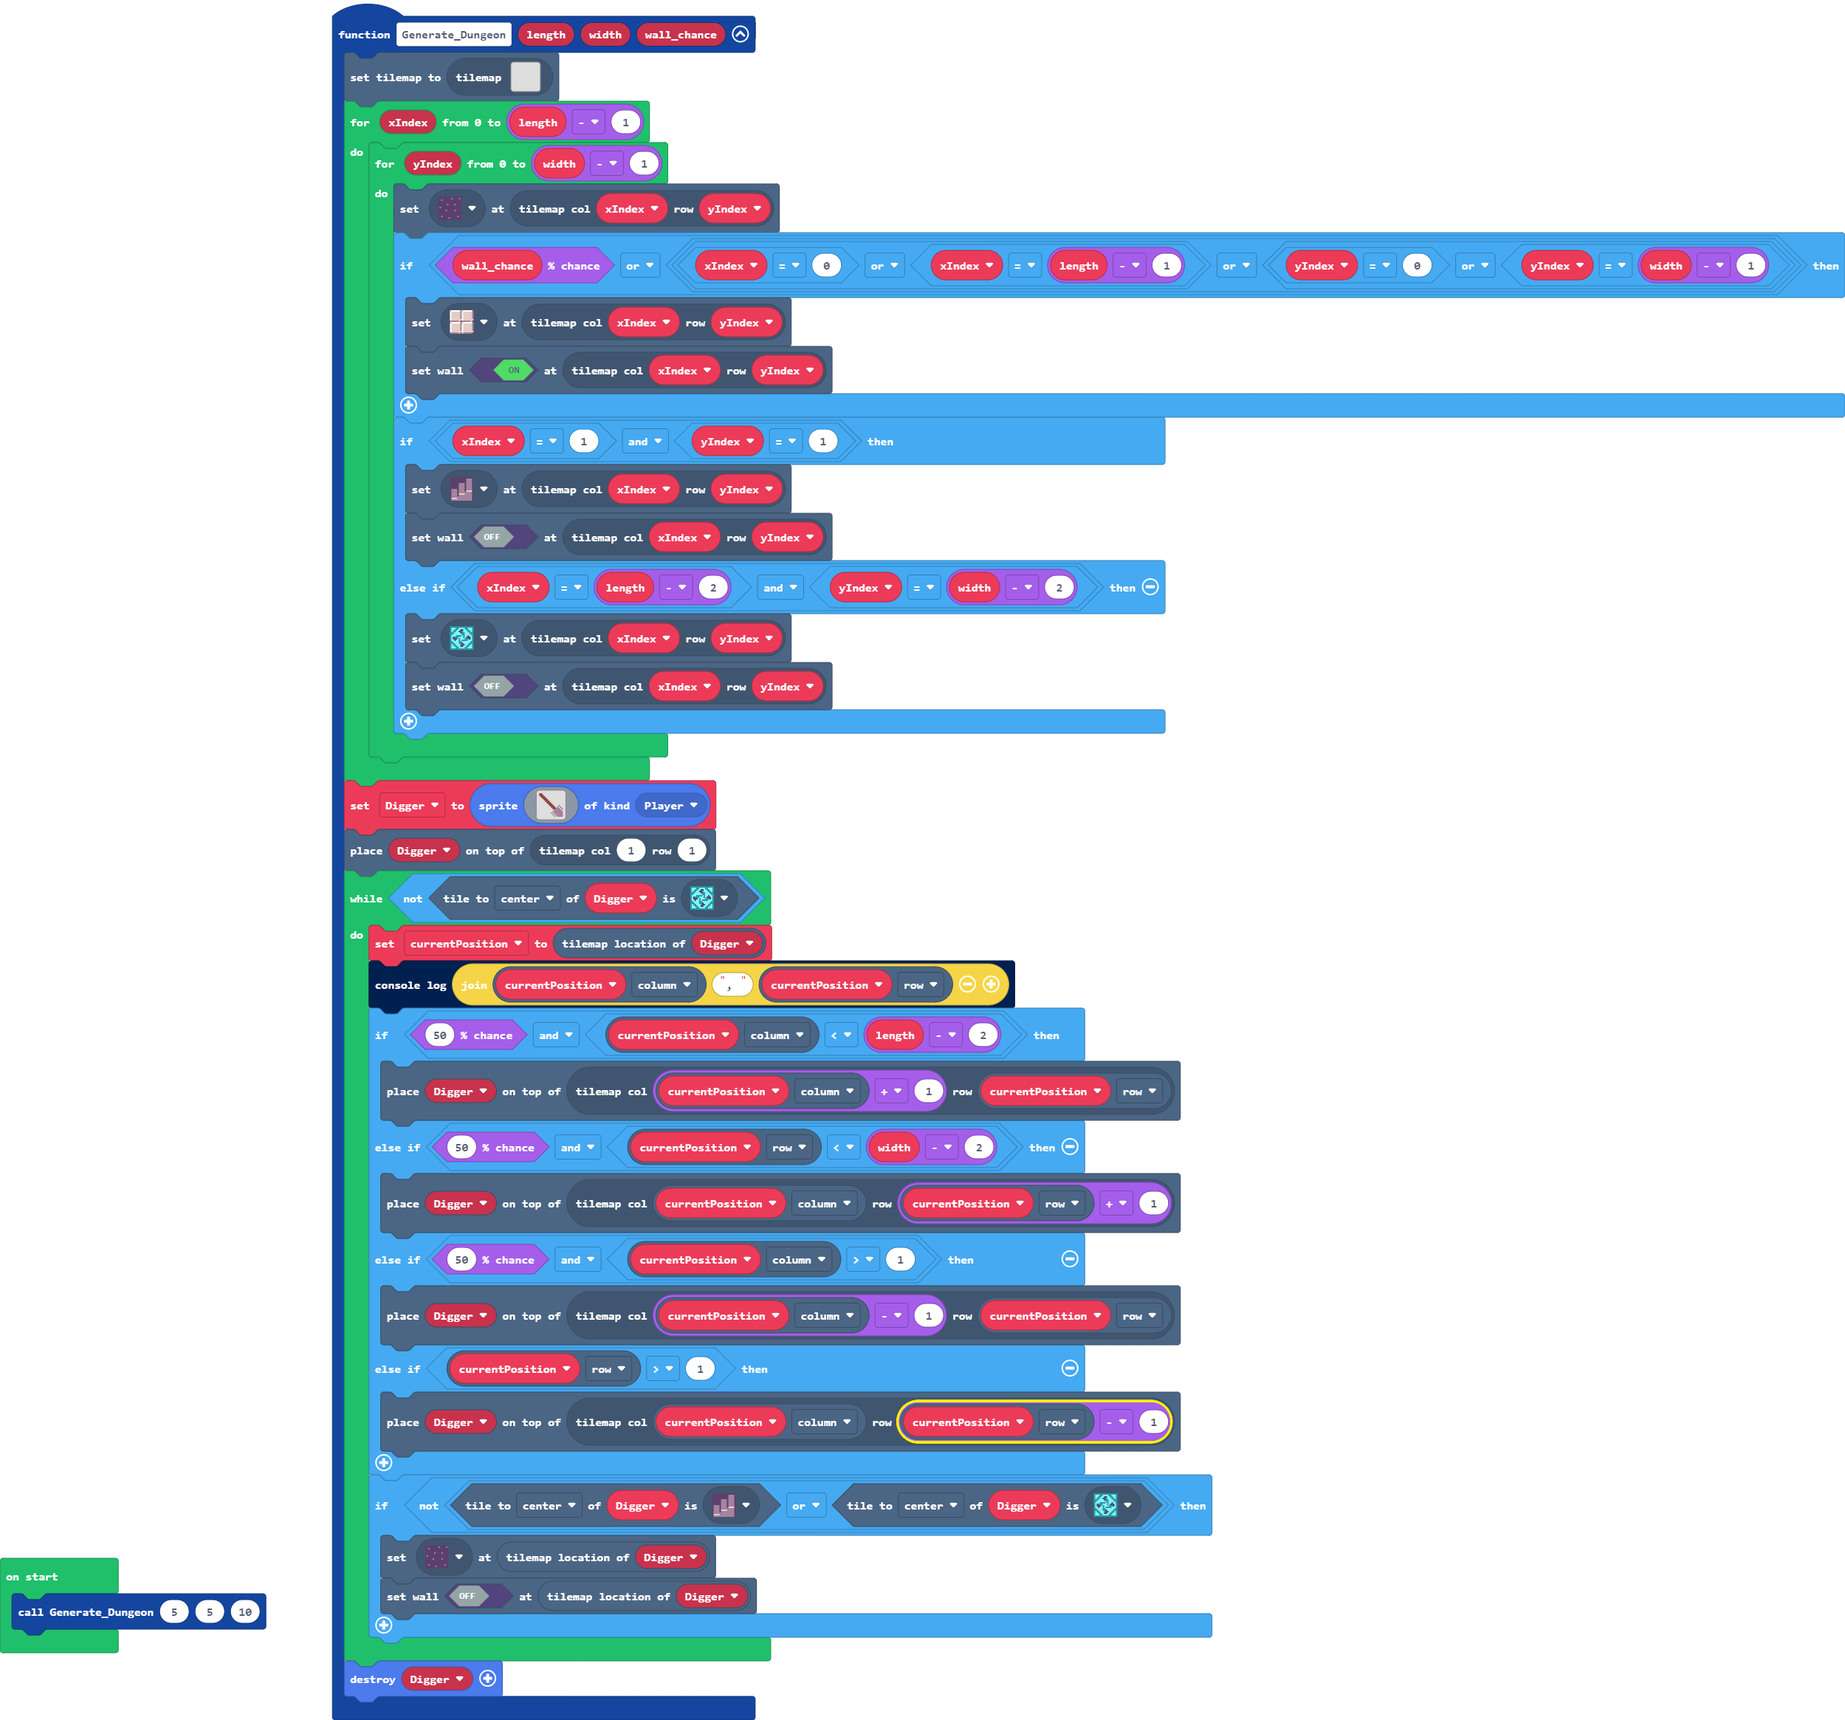
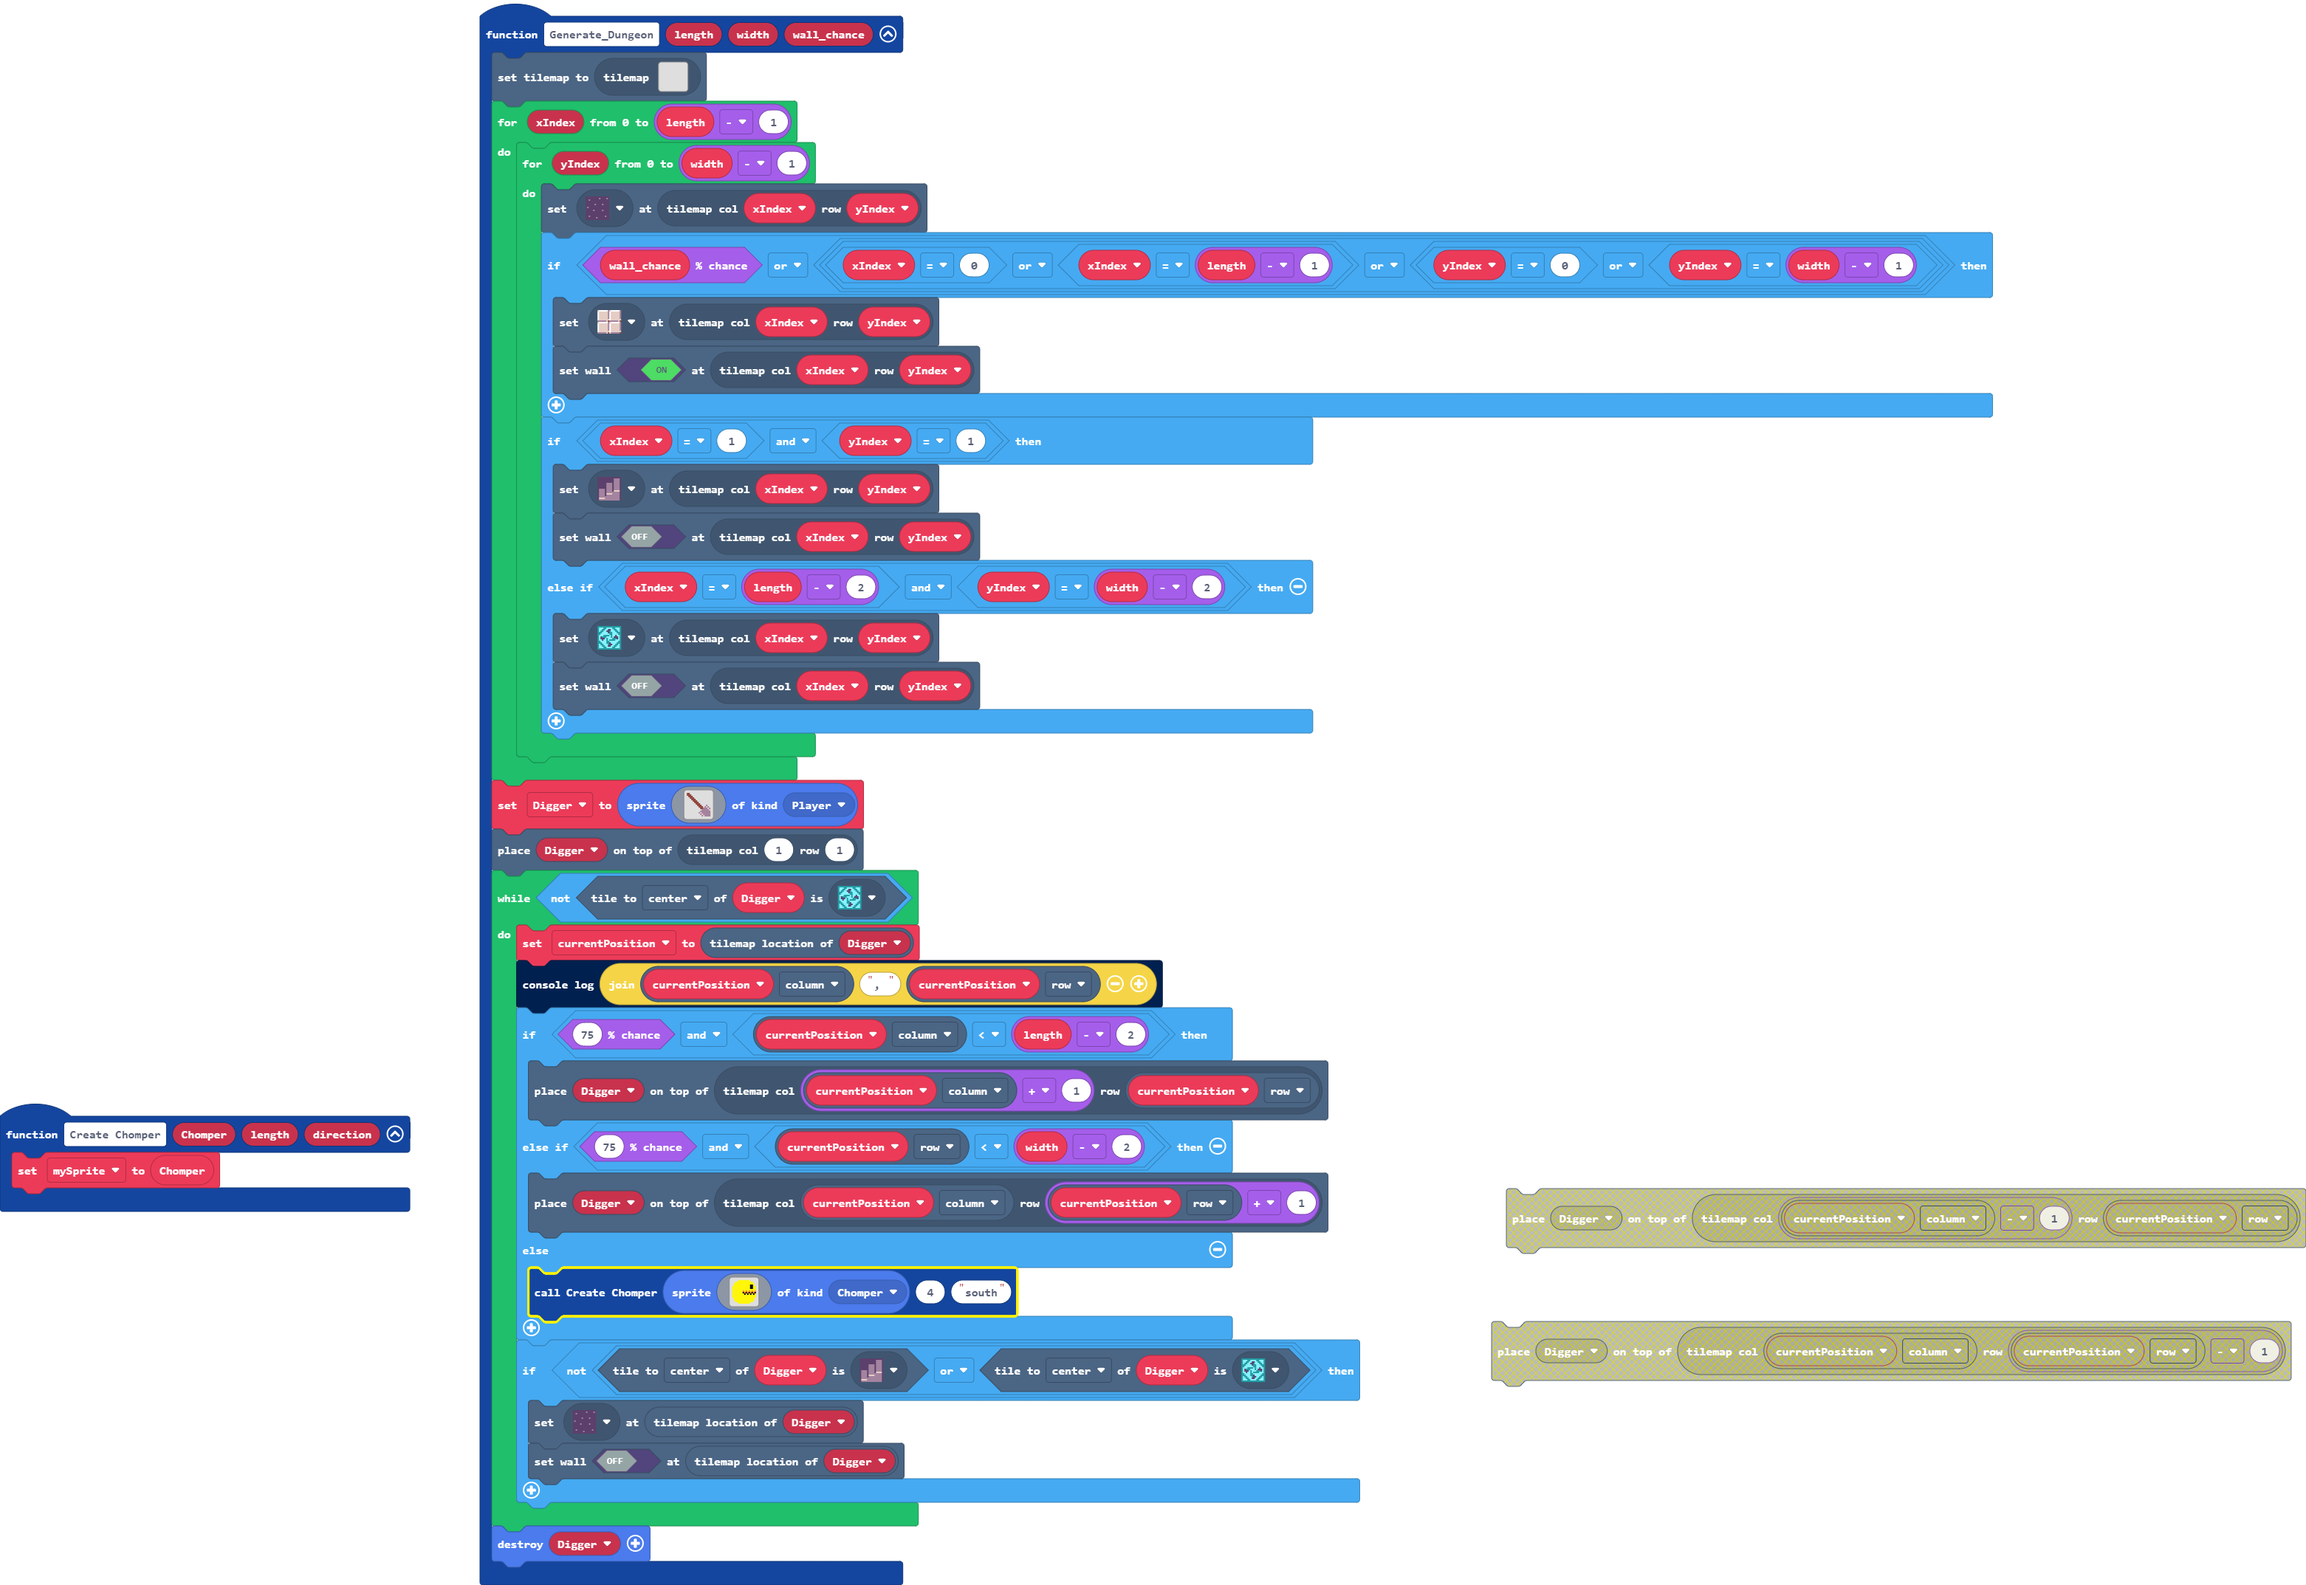
Chomper update immanent (DEBUG)

diff --git a/backupA.ts b/backupA.ts
@@ -1,0 +1,63 @@
+
+/**
+* Use this file to define custom functions and blocks.
+* Read more at https://arcade.makecode.com/blocks/custom
+*/
+
+
+
+/**
+ * Custom blocks
+ */
+//% weight=100 color=#8B8B8B icon="╬"
+namespace temp {
+    /**
+     * TODO: This code generates a rectangle given parameters
+     * @param length how wide the dungeon will be, in tiles, eg: 10
+     * @param width how long the dungeon will be, in tiles, eg: 10
+     */
+    //% block
+
+    export function Generate_Dungeon(length: number, width: number, wall_chance: number) {
+        let currentPosition: tiles.Location = null
+        let Digger: Sprite = null
+        tiles.setCurrentTilemap(tilemap`level1`)
+        for (let xIndex = 0; xIndex <= length - 1; xIndex++) {
+            for (let yIndex = 0; yIndex <= width - 1; yIndex++) {
+                tiles.setTileAt(tiles.getTileLocation(xIndex, yIndex), sprites.dungeon.darkGroundCenter)
+                if (Math.percentChance(wall_chance) || (xIndex == 0 || xIndex == length - 1 || (yIndex == 0 || yIndex == width - 1))) {
+                    tiles.setTileAt(tiles.getTileLocation(xIndex, yIndex), sprites.dungeon.floorLight0)
+                    tiles.setWallAt(tiles.getTileLocation(xIndex, yIndex), true)
+                }
+                if (xIndex == 1 && yIndex == 1) {
+                    tiles.setTileAt(tiles.getTileLocation(xIndex, yIndex), sprites.dungeon.stairLarge)
+                    tiles.setWallAt(tiles.getTileLocation(xIndex, yIndex), false)
+                } else if (xIndex == length - 2 && yIndex == width - 2) {
+                    tiles.setTileAt(tiles.getTileLocation(xIndex, yIndex), sprites.dungeon.collectibleInsignia)
+                    tiles.setWallAt(tiles.getTileLocation(xIndex, yIndex), false)
+                }
+            }
+        }
+        Digger = sprites.create(assets.image`shovel`, SpriteKind.Player)
+        tiles.placeOnTile(Digger, tiles.getTileLocation(1, 1))
+        while (!(Digger.tileKindAt(TileDirection.Center, sprites.dungeon.collectibleInsignia))) {
+            currentPosition = Digger.tilemapLocation()
+            console.log("" + currentPosition.column + ", " + currentPosition.row)
+            if (Math.percentChance(50) && currentPosition.column < length - 2) {
+                tiles.placeOnTile(Digger, tiles.getTileLocation(currentPosition.column + 1, currentPosition.row))
+            } else if (Math.percentChance(50) && currentPosition.row < width - 2) {
+                tiles.placeOnTile(Digger, tiles.getTileLocation(currentPosition.column, currentPosition.row + 1))
+            } else if (Math.percentChance(50) && currentPosition.column > 1) {
+                tiles.placeOnTile(Digger, tiles.getTileLocation(currentPosition.column - 1, currentPosition.row))
+            } else if (currentPosition.row > 1) {
+                tiles.placeOnTile(Digger, tiles.getTileLocation(currentPosition.column, currentPosition.row - 1))
+            }
+            if (!(Digger.tileKindAt(TileDirection.Center, sprites.dungeon.stairLarge) || Digger.tileKindAt(TileDirection.Center, sprites.dungeon.collectibleInsignia))) {
+                tiles.setTileAt(Digger.tilemapLocation(), sprites.dungeon.darkGroundCenter)
+                tiles.setWallAt(Digger.tilemapLocation(), false)
+            }
+        }
+        sprites.destroy(Digger)
+    }
+
+}

diff --git a/main.ts b/main.ts
@@ -1,0 +1,46 @@
+namespace SpriteKind {
+    export const Chomper = SpriteKind.create()
+}
+let Digger: Sprite = null
+let currentPosition: tiles.Location = null
+let mySprite: Sprite = null
+function Generate_Dungeon (length: number, width: number, wall_chance: number) {
+    tiles.setCurrentTilemap(tilemap`level1`)
+    for (let xIndex = 0; xIndex <= length - 1; xIndex++) {
+        for (let yIndex = 0; yIndex <= width - 1; yIndex++) {
+            tiles.setTileAt(tiles.getTileLocation(xIndex, yIndex), sprites.dungeon.darkGroundCenter)
+            if (Math.percentChance(wall_chance) || (xIndex == 0 || xIndex == length - 1 || (yIndex == 0 || yIndex == width - 1))) {
+                tiles.setTileAt(tiles.getTileLocation(xIndex, yIndex), sprites.dungeon.floorLight0)
+                tiles.setWallAt(tiles.getTileLocation(xIndex, yIndex), true)
+            }
+            if (xIndex == 1 && yIndex == 1) {
+                tiles.setTileAt(tiles.getTileLocation(xIndex, yIndex), sprites.dungeon.stairLarge)
+                tiles.setWallAt(tiles.getTileLocation(xIndex, yIndex), false)
+            } else if (xIndex == length - 2 && yIndex == width - 2) {
+                tiles.setTileAt(tiles.getTileLocation(xIndex, yIndex), sprites.dungeon.collectibleInsignia)
+                tiles.setWallAt(tiles.getTileLocation(xIndex, yIndex), false)
+            }
+        }
+    }
+    Digger = sprites.create(assets.image`shovel`, SpriteKind.Player)
+    tiles.placeOnTile(Digger, tiles.getTileLocation(1, 1))
+    while (!(Digger.tileKindAt(TileDirection.Center, sprites.dungeon.collectibleInsignia))) {
+        currentPosition = Digger.tilemapLocation()
+        console.log("" + currentPosition.column + ", " + currentPosition.row)
+        if (Math.percentChance(75) && currentPosition.column < length - 2) {
+            tiles.placeOnTile(Digger, tiles.getTileLocation(currentPosition.column + 1, currentPosition.row))
+        } else if (Math.percentChance(75) && currentPosition.row < width - 2) {
+            tiles.placeOnTile(Digger, tiles.getTileLocation(currentPosition.column, currentPosition.row + 1))
+        } else {
+            Create_Chomper(sprites.create(assets.image`Chomper`, SpriteKind.Chomper), 4, "south")
+        }
+        if (!(Digger.tileKindAt(TileDirection.Center, sprites.dungeon.stairLarge) || Digger.tileKindAt(TileDirection.Center, sprites.dungeon.collectibleInsignia))) {
+            tiles.setTileAt(Digger.tilemapLocation(), sprites.dungeon.darkGroundCenter)
+            tiles.setWallAt(Digger.tilemapLocation(), false)
+        }
+    }
+    sprites.destroy(Digger)
+}
+function Create_Chomper (Chomper: Sprite, length: number, direction: string) {
+    mySprite = Chomper
+}

diff --git a/images.g.ts b/images.g.ts
@@ -41,6 +41,25 @@ e e e . . . . . . . . . . . . .
 . . . . . . . . . b d b b b b b 
 . . . . . . . . . . b d b b b b 
 `;
+            case "image3":
+            case "Chomper":return img`
+. . . . 5 5 5 5 5 5 5 5 . . . . 
+. . 5 5 5 5 5 5 5 5 5 5 5 5 . . 
+. 5 5 5 5 5 5 5 5 5 5 5 5 5 5 . 
+. 5 5 5 5 5 5 5 5 5 5 5 f f 5 . 
+5 5 5 5 5 5 5 5 5 5 5 5 f f 5 5 
+5 5 5 5 5 5 5 5 5 5 5 5 f f 5 5 
+5 5 5 5 5 5 5 5 5 5 5 5 5 5 5 5 
+5 5 5 5 5 5 5 4 5 4 5 4 5 4 5 4 
+5 5 5 5 5 5 5 f 4 f 4 f 4 f 4 f 
+5 5 5 5 5 5 5 5 f 5 f 5 f 5 f 5 
+5 5 5 5 5 5 5 5 5 5 5 5 5 5 5 5 
+5 5 5 5 5 5 5 5 5 5 5 5 5 5 5 5 
+. 5 5 5 5 5 5 5 5 5 5 5 5 5 5 . 
+. 5 5 5 5 5 5 5 5 5 5 5 5 5 5 . 
+. . 5 5 5 5 5 5 5 5 5 5 5 5 . . 
+. . . . 5 5 5 5 5 5 5 5 . . . . 
+`;
         }
         return null;
     })
